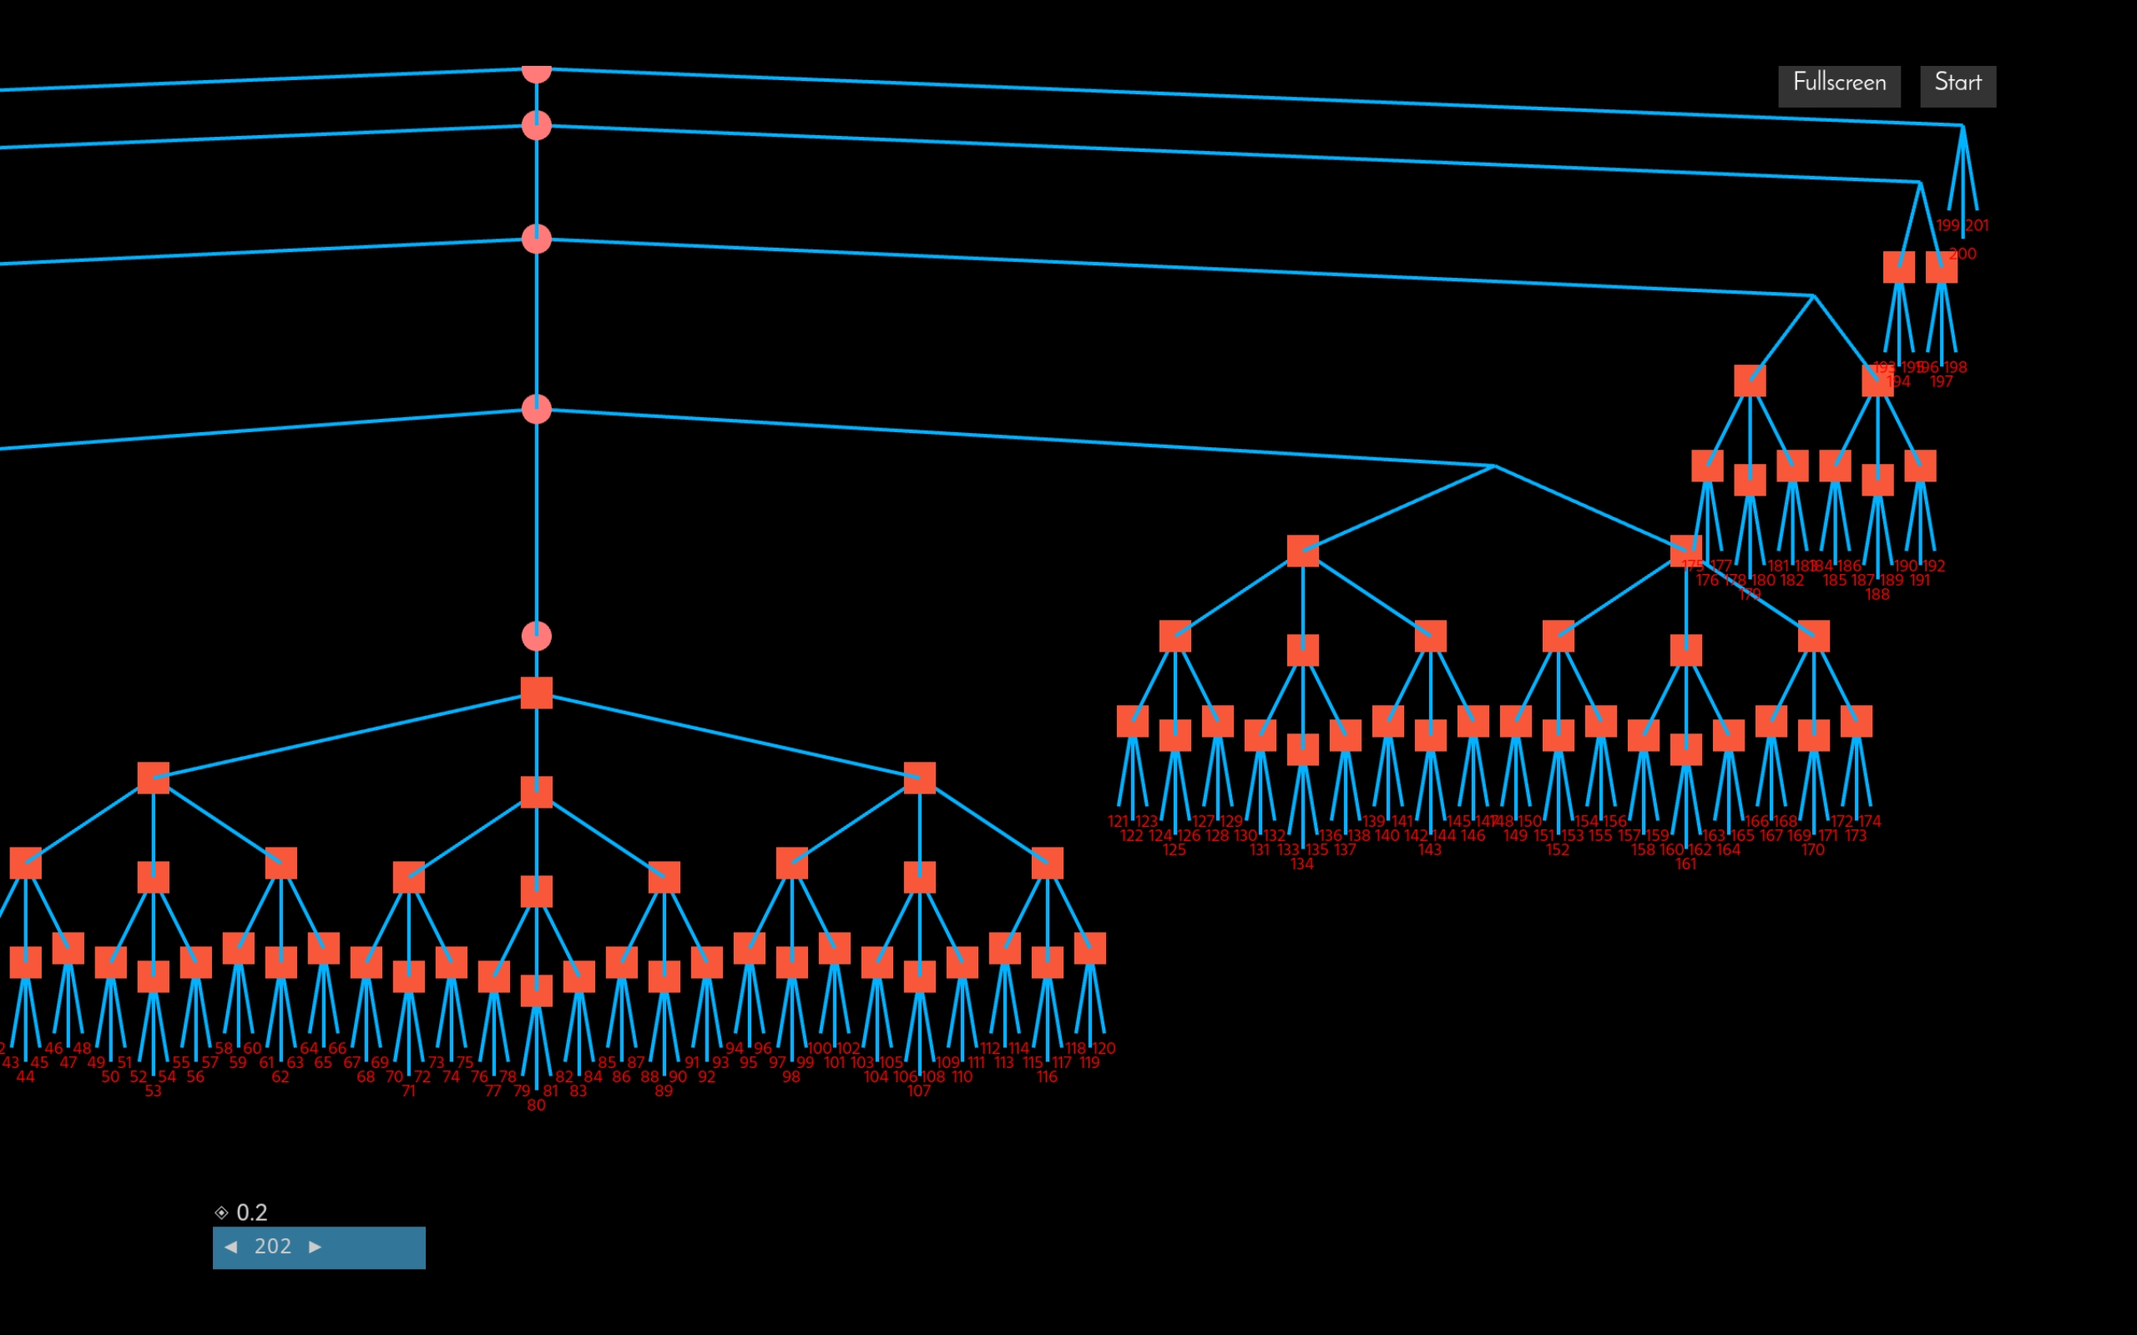
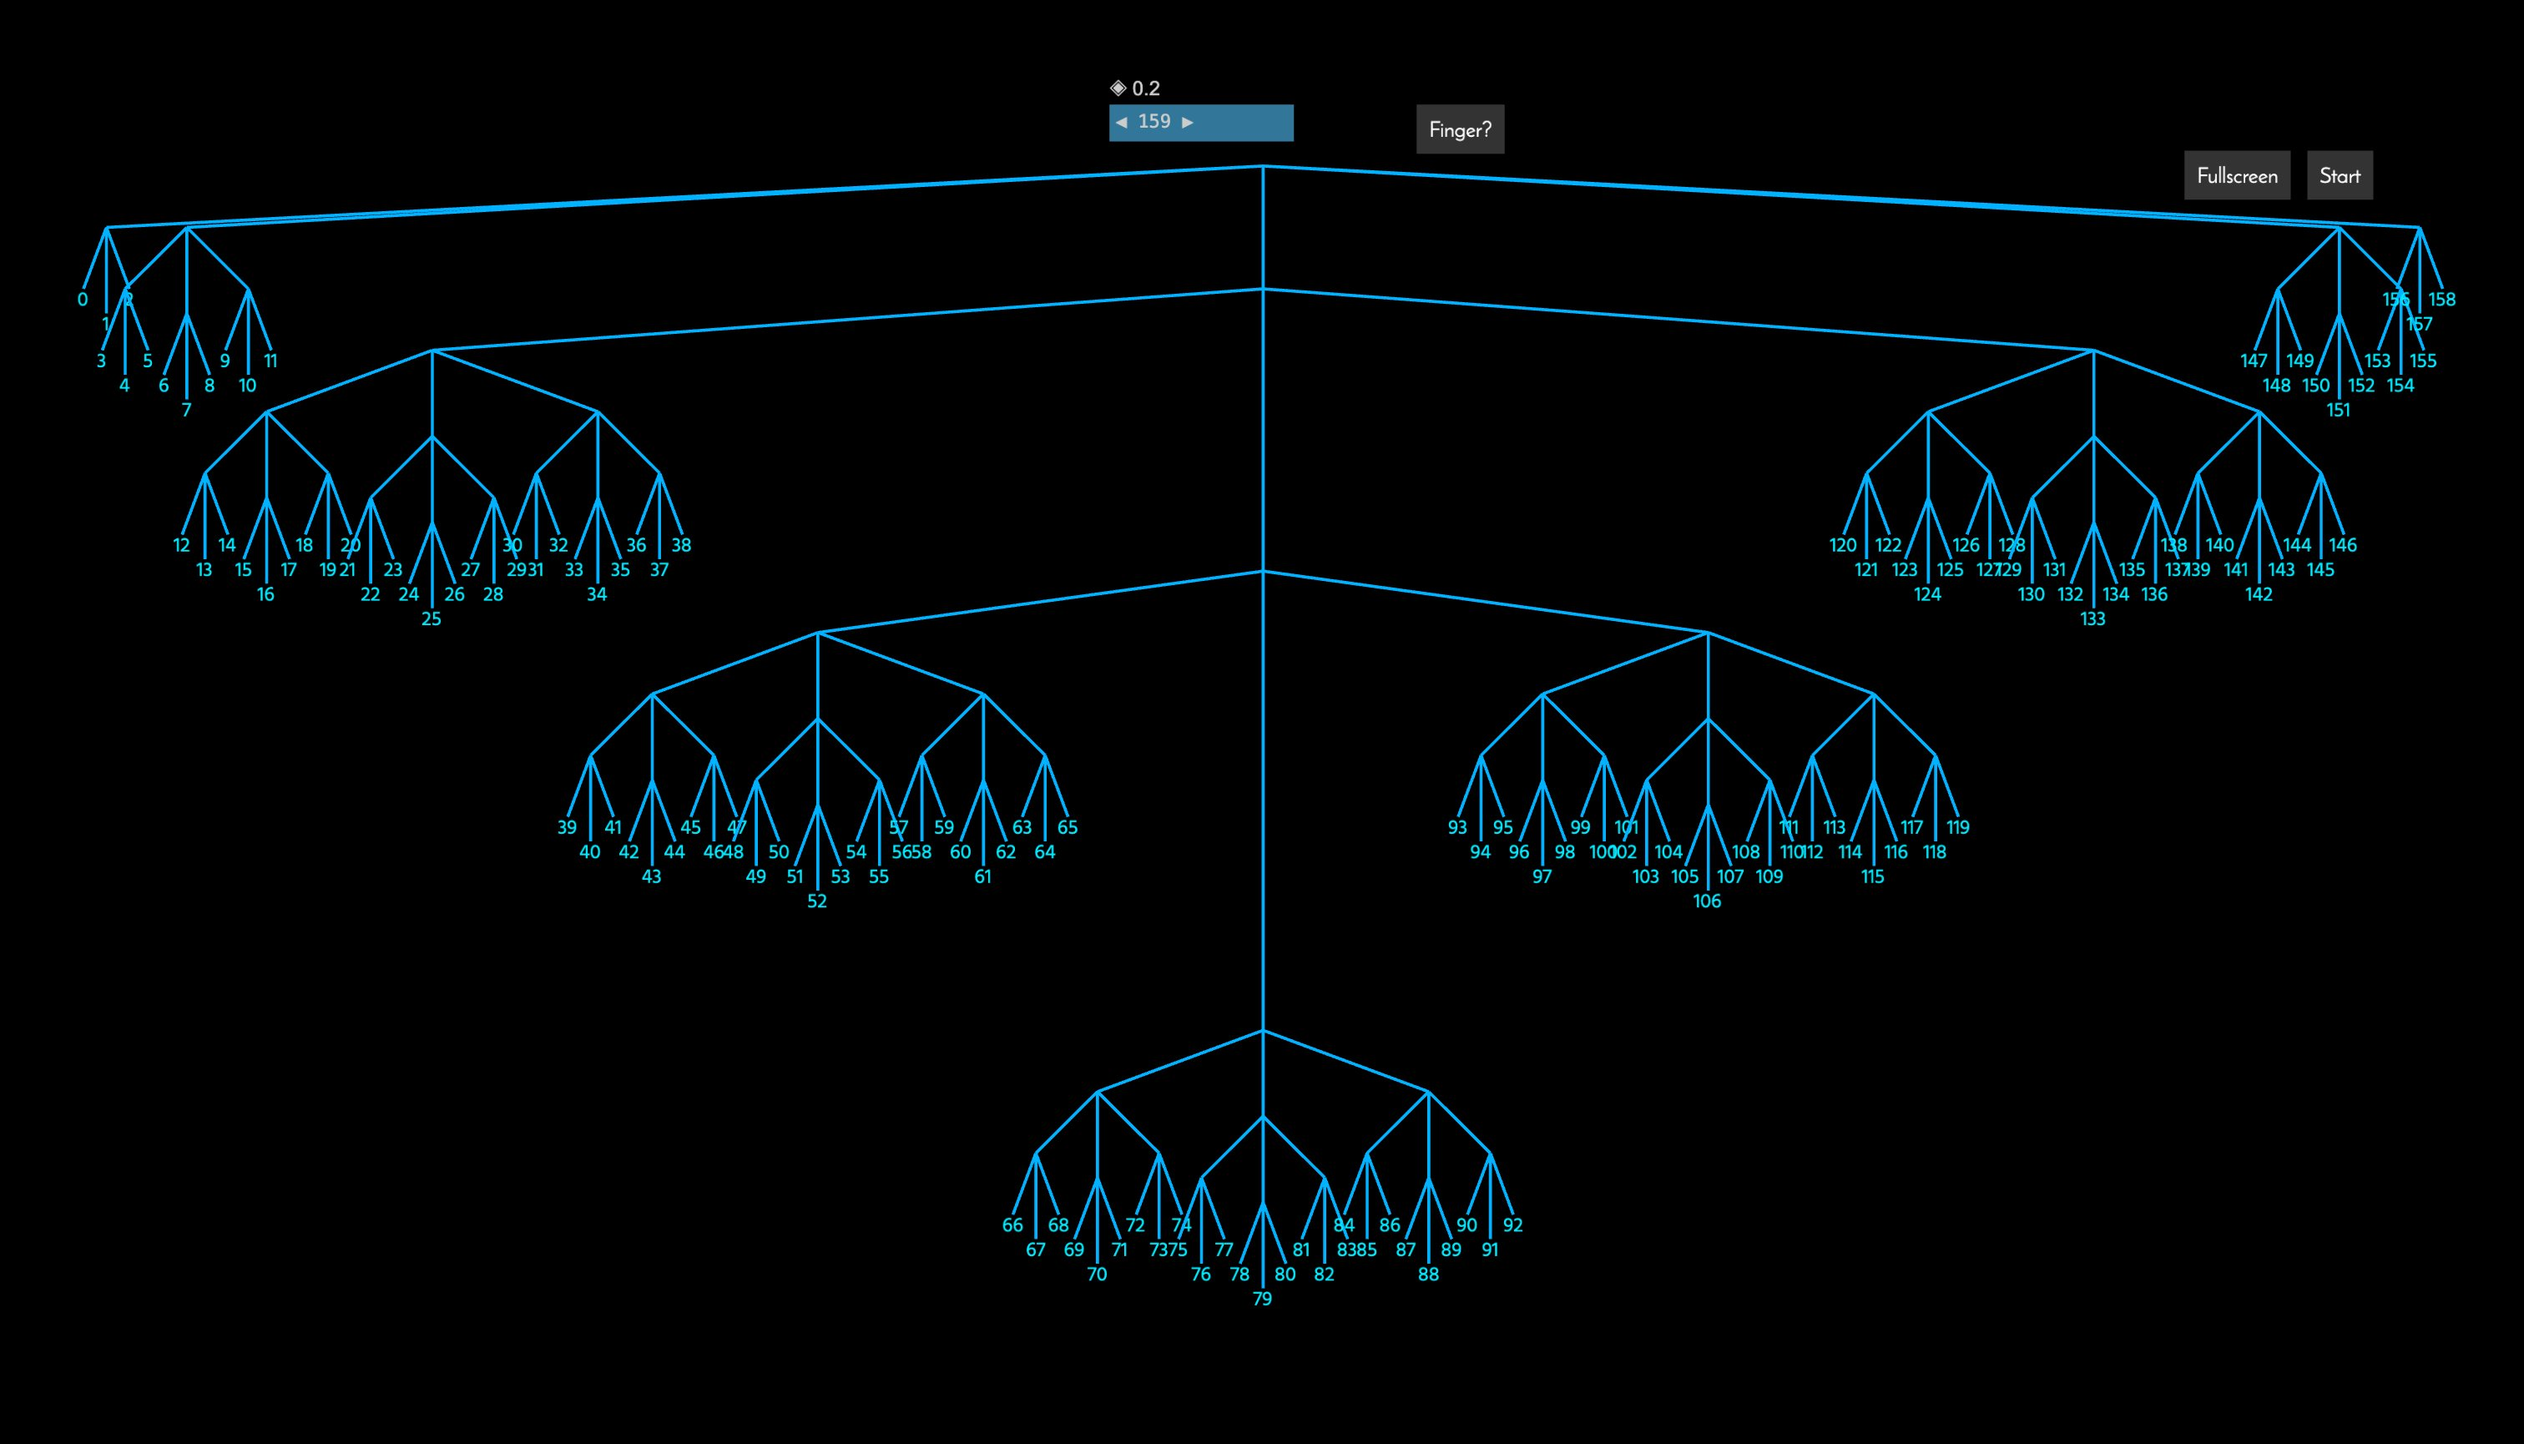
use images as better illustrations

diff --git a/README.md b/README.md
@@ -2,7 +2,7 @@
 
 > borrowed ideas from 2-3 tree and finger-tree.
 
-Demostrating tree layout from 0 to 159 https://www.bilibili.com/video/BV1F34y147V7
+Tree layout from 0 to 159 watch [video](https://www.bilibili.com/video/BV1F34y147V7) or try [live demo](https://github.com/calcit-lang/explain-ternary-tree).
 
 ![ternary-tree illustrated](assets/ternary-tree-demo.jpeg)
 
@@ -34,47 +34,9 @@ assert_eq!(updated.unsafe_get(3), 10);
 
 This library has special optimizations on `push_right` and `pop_left` with tricks from [finger-tree](https://en.wikipedia.org/wiki/Finger_tree).
 
-For a vector of `([] 0 1 2 3 4 5 6 7)`, its internal structure is like:
+And as its size grows, it's always operating on a shallow branch at right end, wasting fewer nodes for indexing new elements, a random demo looks like:
 
-```cirru
-((0 1 2) (3 4 5) (6 7))
-```
-
-each pair of `(` and `)` represents a branch, notice that each group is size 1, 2 or 3.
-
-And as its size grows, it's always operating on a shallow branch at right end, wasting fewer nodes for indexing new elements:
-
-```cirru
-  0
- (0 1)
- (0 1 2)
-((0 1 2) 3)
-((0 1 2) (3 4))
-((0 1 2) (3 4 5))
-((0 1 2) (3 4 5) 6)
-((0 1 2) (3 4 5) (6 7))
-((0 1 2) (3 4 5) (6 7 8))
-((0 1 2) ((3 4 5) (6 7 8)) 9)
-((0 1 2) ((3 4 5) (6 7 8)) (9 10))
-((0 1 2) ((3 4 5) (6 7 8)) (9 10 11))
-((0 1 2) ((3 4 5) (6 7 8) (9 10 11)) 12)
-((0 1 2) ((3 4 5) (6 7 8) (9 10 11)) (12 13))
-((0 1 2) ((3 4 5) (6 7 8) (9 10 11)) (12 13 14))
-((0 1 2) (((3 4 5) (6 7 8) (9 10 11)) (12 13 14)) 15)
-((0 1 2) (((3 4 5) (6 7 8) (9 10 11)) (12 13 14)) (15 16))
-((0 1 2) (((3 4 5) (6 7 8) (9 10 11)) (12 13 14)) (15 16 17))
-((0 1 2) (((3 4 5) (6 7 8) (9 10 11)) ((12 13 14) (15 16 17))) 18)
-((0 1 2) (((3 4 5) (6 7 8) (9 10 11)) ((12 13 14) (15 16 17))) (18 19))
-((0 1 2) (((3 4 5) (6 7 8) (9 10 11)) ((12 13 14) (15 16 17))) (18 19 20))
-((0 1 2) (((3 4 5) (6 7 8) (9 10 11)) ((12 13 14) (15 16 17) (18 19 20))) 21)
-((0 1 2) (((3 4 5) (6 7 8) (9 10 11)) ((12 13 14) (15 16 17) (18 19 20))) (21 22))
-((0 1 2) (((3 4 5) (6 7 8) (9 10 11)) ((12 13 14) (15 16 17) (18 19 20))) (21 22 23))
-((0 1 2) (((3 4 5) (6 7 8) (9 10 11)) ((12 13 14) (15 16 17) (18 19 20)) (21 22 23)) 24)
-((0 1 2) (((3 4 5) (6 7 8) (9 10 11)) ((12 13 14) (15 16 17) (18 19 20)) (21 22 23)) (24 25))
-((0 1 2) (((3 4 5) (6 7 8) (9 10 11)) ((12 13 14) (15 16 17) (18 19 20)) (21 22 23)) (24 25 26))
-((0 1 2) (((3 4 5) (6 7 8) (9 10 11)) ((12 13 14) (15 16 17) (18 19 20)) ((21 22 23) (24 25 26))) 27)
-((0 1 2) (((3 4 5) (6 7 8) (9 10 11)) ((12 13 14) (15 16 17) (18 19 20)) ((21 22 23) (24 25 26))) (27 28))
-```
+![ternary-tree illustrated](assets/partial.png)
 
 Also the left branches are kept shallow on purpose so it can be cheaper in `pop_left`. Totally inspired by finger-tree.
 
